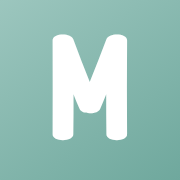
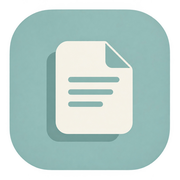
Add files via upload

diff --git a/index.html b/index.html
@@ -9,8 +9,10 @@
 <meta name="apple-mobile-web-app-title" content="MyDocs">
 <meta name="apple-mobile-web-app-status-bar-style" content="default">
 <link rel="manifest" href="manifest.webmanifest">
-<link rel="apple-touch-icon" href="icons/apple-touch-icon.png">
-<link rel="icon" type="image/png" href="icons/icon-192.png">
+<link rel="apple-touch-icon" href="apple-touch-icon.png">
+<link rel="icon" type="image/png" sizes="32x32" href="favicon-32.png">
+<link rel="icon" type="image/x-icon" href="favicon.ico">
+<link rel="icon" type="image/png" sizes="192x192" href="icon-192.png">
 <title>MyDocs</title>
 <style>
   /* Freeday font (freeware, non-commercial), embedded so no separate download is needed */

diff --git a/sw.js b/sw.js
@@ -1,6 +1,6 @@
 // Offline cache for MyDocs. Bump CACHE when you change files to force a refresh.
-const CACHE = 'mydocs-v5-focus-canvas';
-const ASSETS = ['./', 'index.html', 'manifest.webmanifest', 'icons/icon-192.png', 'icons/icon-512.png', 'icons/apple-touch-icon.png'];
+const CACHE = 'mydocs-v7-flat-github-pages';
+const ASSETS = ['./', 'index.html', 'manifest.webmanifest', 'icon-192.png', 'icon-512.png', 'apple-touch-icon.png', 'favicon-16.png', 'favicon-32.png', 'favicon.ico'];
 
 self.addEventListener('install', e => {
   e.waitUntil(caches.open(CACHE).then(c => c.addAll(ASSETS)).then(() => self.skipWaiting()));

diff --git a/README.md b/README.md
@@ -1,1 +1,5 @@
-# my-docs
+MyDocs — GitHub Pages deployment
+
+Upload the contents of this folder directly to the root of your GitHub Pages repository (the same level as index.html). All app and icon files are kept at the root; no enclosing project folder or nested ZIP is needed.
+
+If the app was previously installed, refresh the site to pick up the updated service-worker cache. Existing documents are stored in the browser, so do not clear website data unless you have a backup.
